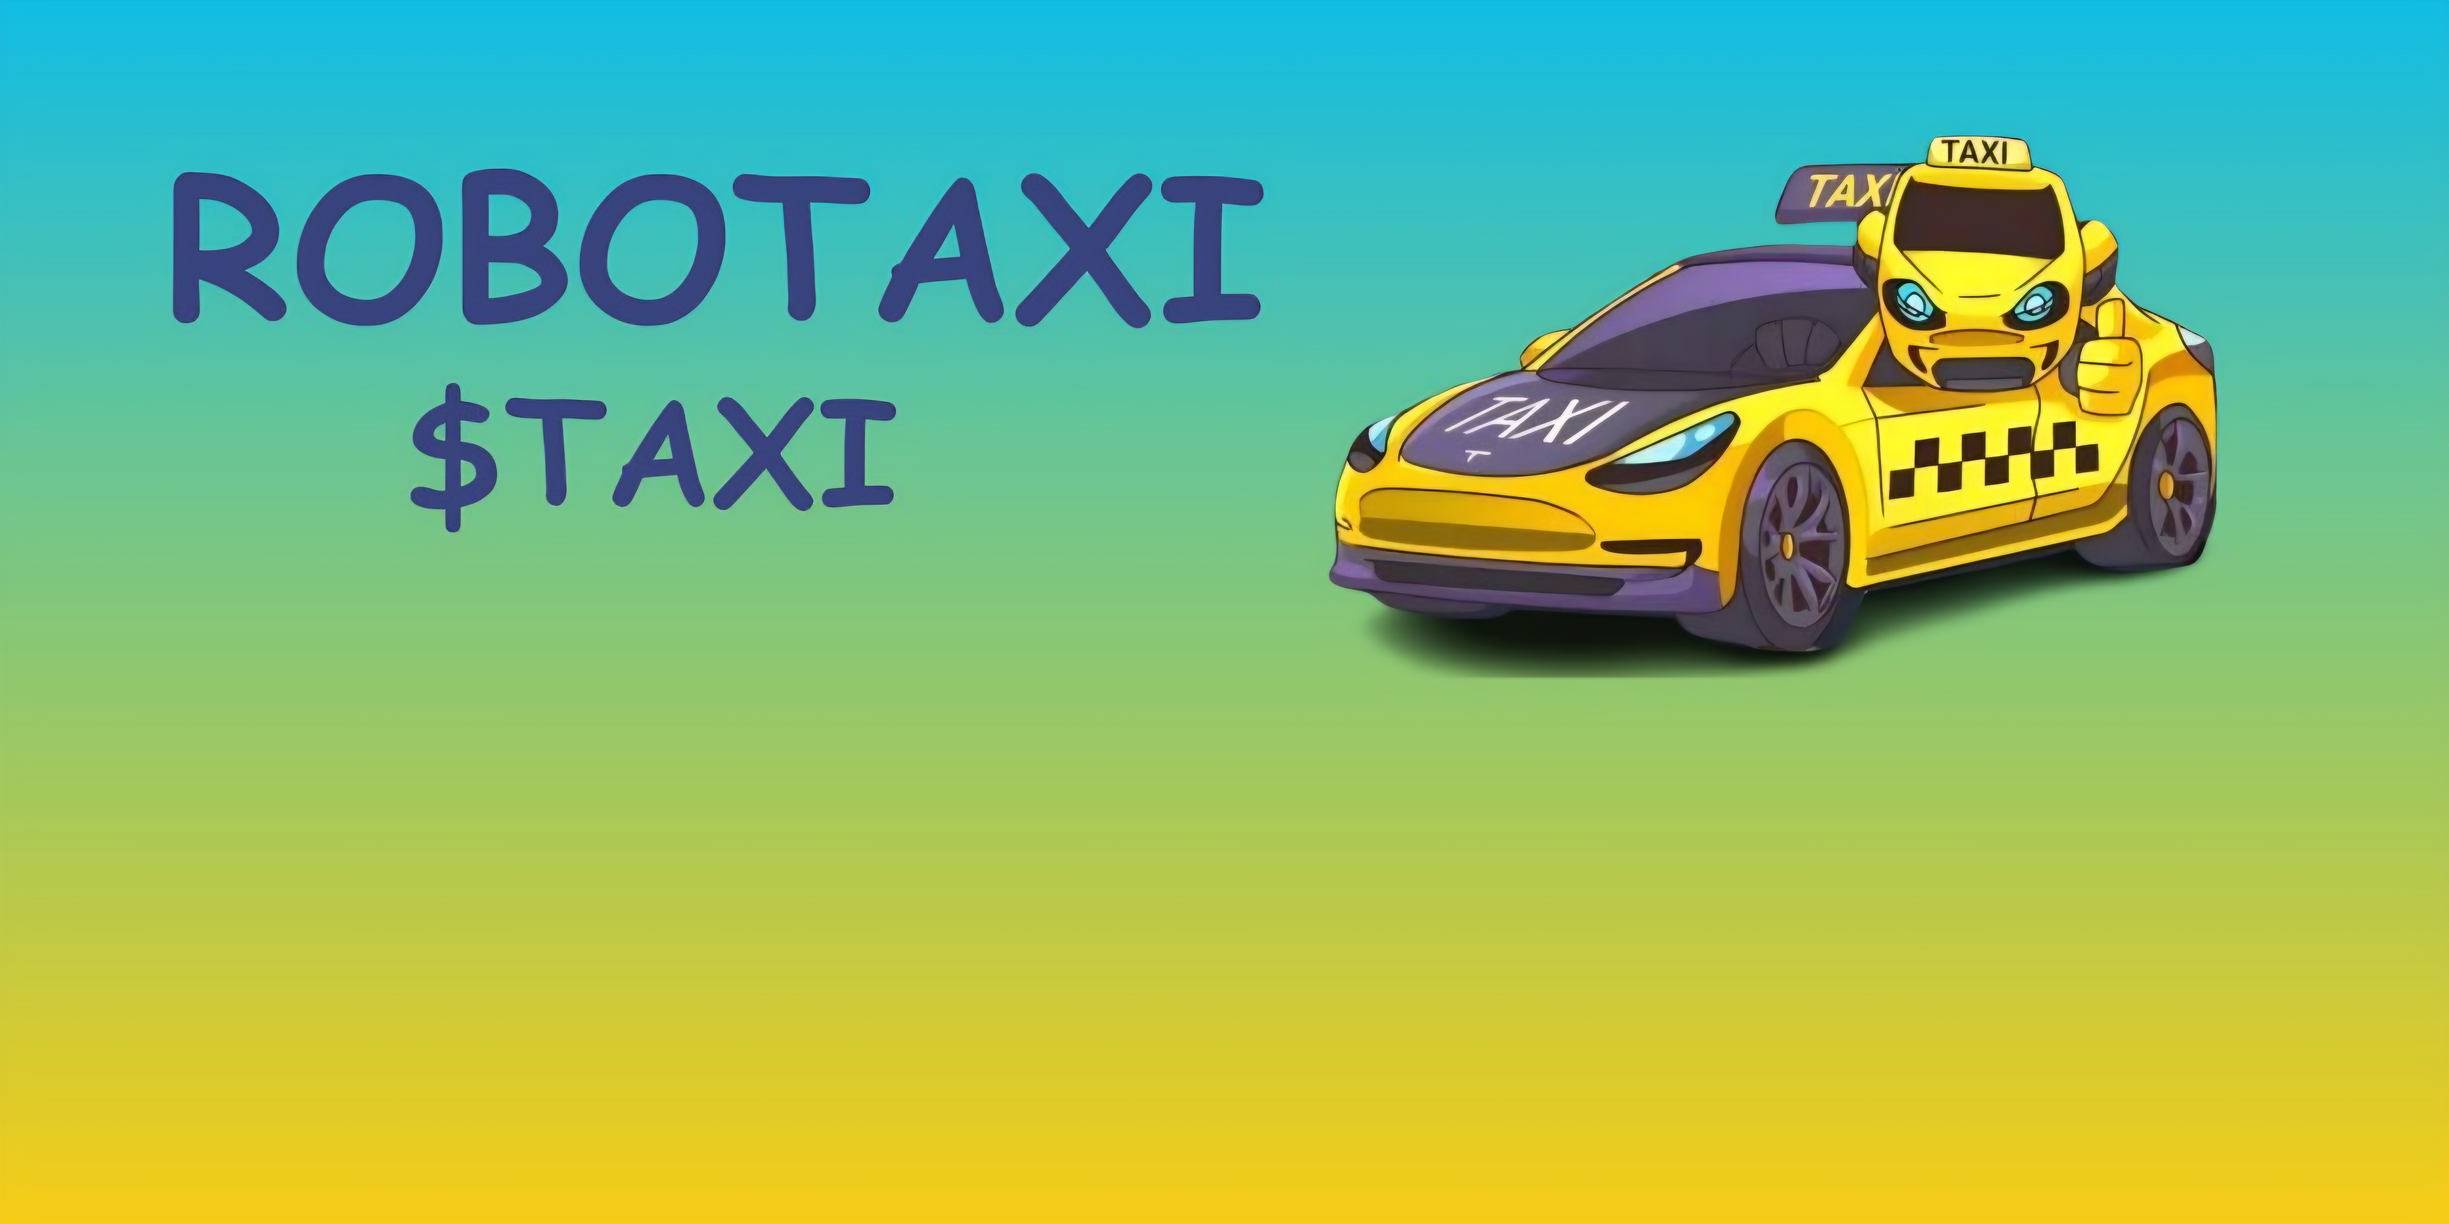
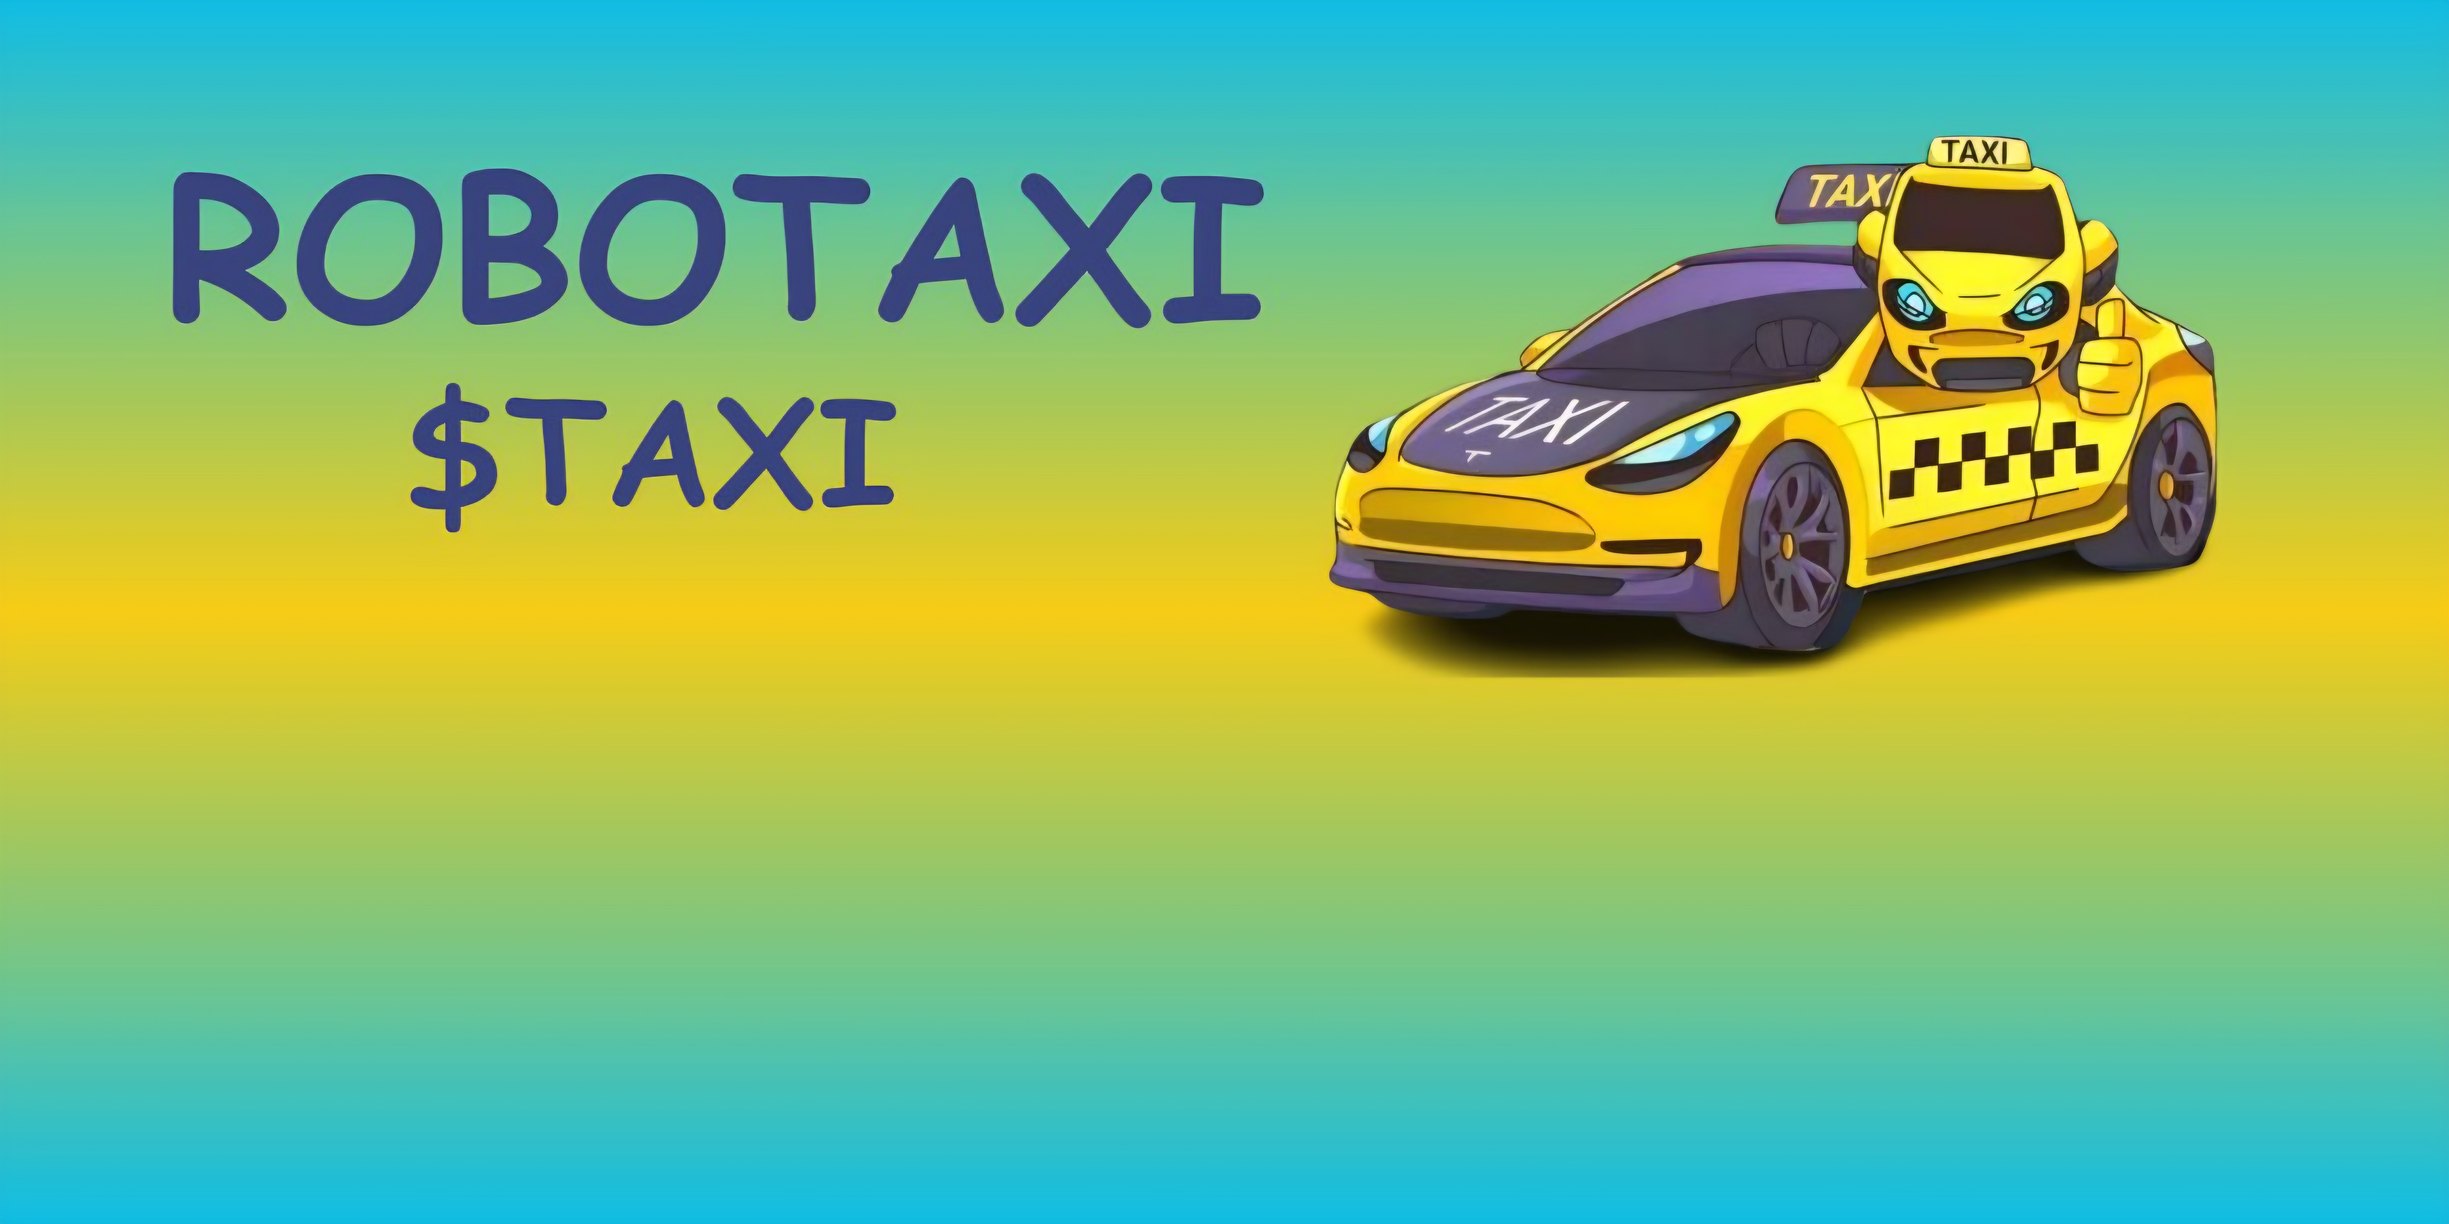
Changed the colours

diff --git a/taxicoin/src/components/Hero.tsx b/taxicoin/src/components/Hero.tsx
@@ -5,7 +5,7 @@ export default function HeroSection() {
   return (
     <>
       <Header />
-      <main className="pt-18 bg-yellow-500">
+      <main className="pt-18 bg-[#0cc0df]">
         <div className="relative w-full">
           {/* Background image */}
           <img src="/home.jpg" className="w-full h-auto object-cover" />
@@ -18,14 +18,14 @@ export default function HeroSection() {
               rel="noopener noreferrer"
             >
               <button
-                className="flex items-center gap-2 bg-yellow-400 text-[#39437E] font-bold 
-          py-2 px-4 sm:py-2.5 sm:px-5 md:py-3 md:px-6 
+                className="flex items-center gap-2 bg-[#39437E] text-[#0cc0df] font-bold 
+          py-3 px-3 sm:py-4 sm:px-4 md:py-5 md:px-5 
           rounded-full border-b-4 border-[#39437E] 
-          shadow-[0_4px_0_0_#39437E] transition-all duration-100 
+          shadow-[0_4px_0_0_#0cc0df] transition-all duration-100 
           hover:translate-y-1 hover:shadow-none 
           active:translate-y-1 active:shadow-none active:border-b-0"
               >
-                <Twitter className="w-5 h-5 sm:w-6 sm:h-6 md:w-7 md:h-7" />
+                <Twitter className="w-7 h-7 sm:w-8 sm:h-8 md:w-9 md:h-9" />
               </button>
             </a>
 
@@ -35,83 +35,25 @@ export default function HeroSection() {
               rel="noopener noreferrer"
             >
               <button
-                className="flex items-center gap-2 bg-yellow-400 text-[#39437E] font-bold 
-          py-2 px-4 sm:py-2.5 sm:px-5 md:py-3 md:px-6 
-          rounded-full border-b-4 border-[#39437E] 
-          shadow-[0_4px_0_0_#39437E] transition-all duration-100 
+                className="flex items-center gap-2 bg-[#39437E] text-[#0cc0df] font-bold 
+          py-3 px-3 sm:py-4 sm:px-4 md:py-5 md:px-5 
+          rounded-full border-b-4 border-[#39437E]
+          shadow-[0_4px_0_0_#0cc0df] transition-all duration-100 
           hover:translate-y-1 hover:shadow-none 
           active:translate-y-1 active:shadow-none active:border-b-0"
               >
-                <Send className="w-5 h-5 sm:w-6 sm:h-6 md:w-7 md:h-7" />
+                <Send className="w-7 h-7 sm:w-8 sm:h-8 md:w-9 md:h-9" />
               </button>
             </a>
           </div>
         </div>
+
+        <img src="/floatingimg.png" />
+        <p>
+          Robotaxi is a memecoin created to honour ElonMusk's ambitious vision
+          of fully autonomous future ( Tesla Robotaxi)
+        </p>
       </main>
     </>
-
-    // The following Hero Content section is commented out to avoid syntax errors.
-    /*
-    <section className="relative flex flex-col min-h-[100vh] py-20 items-center justify-center overflow-visible bg-yellow-500">
-      <Header />
-      <div className="flex flex-col items-center w-full border-b border-[#39437E] mt-30 lg:mt-50 justify-center py-8 text-center">
-        <div className="flex w-full justify-center gap-[18vw] md:gap-[40%] px-8 md:my-5 mt-30 mb-8">
-          <a
-            href="https://x.com/EthRoboTaxi"
-            target="_blank"
-            rel="noopener noreferrer"
-          >
-            <button className="flex items-center gap-2 bg-yellow-400 text-[#39437E] font-bold py-3 px-6 rounded-lg border-b-4 border-[#39437E] shadow-[0_4px_0_0_#39437E] transition-all duration-100 hover:translate-y-1 hover:shadow-none active:translate-y-1 active:shadow-none active:border-b-0">
-              <Twitter className="w-5 h-5" />
-              Twitter
-            </button>
-          </a>
-          <a
-            href="https://t.me/RoboTaxiPortal"
-            target="_blank"
-            rel="noopener noreferrer"
-          >
-            <button className="flex items-center gap-2 bg-yellow-400 text-[#39437E] font-bold py-3 px-6 rounded-lg border-b-4 border-[#39437E] shadow-[0_4px_0_0_#39437E] transition-all duration-100 hover:translate-y-1 hover:shadow-none active:translate-y-1 active:shadow-none active:border-b-0">
-              <Send className="w-5 h-5" />
-              Telegram
-            </button>
-          </a>
-        </div>
-        <div
-          className={`justify-center flex transition-all duration-700 ${
-            show ? "translate-y-0" : "translate-y-10"
-          }`}
-        >
-          <img
-            src="/intro.jpg"
-            alt="Monkey Character"
-            className="w-[80%] float-animation rounded-full md:w-[50%]"
-          />
-        </div>
-        <div className="flex gap-3 justify-center items-center flex-col">
-          <h1
-            className={`mb-2 text-7xl font-black uppercase tracking-tighter text-black md:text-5xl lg:text-6xl transition-all duration-700 delay-150 ${
-              show ? "translate-y-0" : "translate-y-10"
-            }`}
-          >
-            ROBOTAXI
-          </h1>
-          <p
-            className={` w-[85%] md:w-[70%] text-lg font-bold text-black md:text-2xl transition-all duration-700 delay-300 ${
-              show ? "translate-y-0" : "translate-y-10"
-            }`}
-          >
-            A memecoin honouring ElonMusk's ambitious vision of fully autonomous
-            future ( Tesla cybercab )
-          </p>
-          <a href="https://app.uniswap.org/swap?outputCurrency=0x2597342ff387B63846eb456419590781C4bfCdAF">
-            <button className="bg-yellow-400 text-[#39437E] font-bold py-3 px-6 rounded-lg border-b-4 border-[#39437E] shadow-[0_4px_0_0_#39437E] transition-all duration-100 hover:translate-y-1 hover:shadow-none active:translate-y-1 active:shadow-none active:border-b-0">
-              Buy Now
-            </button>
-          </a>
-        </div>
-      </div>
-    </section>
-    */
   );
 }

diff --git a/taxicoin/src/components/Header.tsx b/taxicoin/src/components/Header.tsx
@@ -42,7 +42,7 @@ const Header = () => {
   }, []);
   return (
     <>
-      <nav className="fixed left-0 right-0 top-0 z-50 flex items-center justify-between bg-white p-4 shadow-md">
+      <nav className="fixed left-0 right-0 top-0 z-50 flex items-center justify-between bg-[#0cc0df] p-4 shadow-md">
         {/* Logo */}
         <div className="flex items-center gap-2">
           <img src="/logo2.jpg" alt="Token Logo" className="h-10 w-10" />
@@ -53,7 +53,7 @@ const Header = () => {
         <div className="hidden md:flex gap-4">
           <a
             href="#"
-            className="rounded-lg border-2 border-black bg-yellow-300 px-4 py-2 font-bold text-black transition-transform hover:scale-105 hover:bg-yellow-200"
+            className="rounded-lg border-2 border-gray-200 bg-[#39437E] px-5 py-2 font-bold text-white transition-transform hover:scale-105 hover:bg-[#737AA8]"
           >
             BUY
           </a>
@@ -96,9 +96,9 @@ const Header = () => {
           }`}
         >
           {menuOpen ? (
-            <X className="h-6 w-6 text-black" />
+            <X className="h-6 w-6 text-white" />
           ) : (
-            <Menu className="h-6 w-6 text-black" />
+            <Menu className="h-6 w-6 text-white" />
           )}
         </button>
       </nav>
@@ -114,7 +114,7 @@ const Header = () => {
           <a
             href="#about"
             onClick={() => setMenuOpen(false)}
-            className="w-full rounded-lg border-2 border-black bg-yellow-300 px-4 py-2 text-center font-bold text-black hover:bg-yellow-200"
+            className="w-full rounded-lg border-2 border-black bg-[#0cc0df] px-4 py-2 text-center font-bold text-white hover:bg-[#737AA8]"
           >
             ABOUT
           </a>
@@ -122,7 +122,7 @@ const Header = () => {
           <a
             href="#tokenomics"
             onClick={() => setMenuOpen(false)}
-            className="w-full rounded-lg border-2 border-black bg-gray-300 px-4 py-2 text-center font-bold text-black hover:bg-gray-200"
+            className="w-full rounded-lg border-2 border-black bg-[#39437E] px-4 py-2 text-center font-bold text-white hover:bg-[#737AA8]"
           >
             TOKENOMICS
           </a>
@@ -130,7 +130,7 @@ const Header = () => {
           <a
             href="#howtobuy"
             onClick={() => setMenuOpen(false)}
-            className="w-full rounded-lg border-2 border-black bg-yellow-300 px-4 py-2 text-center font-bold text-black hover:bg-yellow-200"
+            className="w-full rounded-lg border-2 border-black bg-[#0cc0df] px-4 py-2 text-center font-bold text-white hover:bg-[#737AA8]"
           >
             HOW TO BUY
           </a>
@@ -138,12 +138,12 @@ const Header = () => {
           <a
             href="#roadmap"
             onClick={() => setMenuOpen(false)}
-            className="w-full rounded-lg border-2 border-black bg-gray-300 px-4 py-2 text-center font-bold text-black hover:bg-gray-200"
+            className="w-full rounded-lg border-2 border-black bg-[#39437E] px-4 py-2 text-center font-bold text-white hover:bg-[#737AA8]"
           >
             ROADMAP
           </a>
 
-          <div className="w-full justify-center border-black border-2 rounded-lg py-2 flex gap-8">
+          <div className="w-full justify-center bg-[#0cc0df] border-black border-2 rounded-lg py-2 flex gap-8">
             <div className="relative group">
               <a href="https://coinmarketcap.com/currencies/robotaxi/">
                 <img src="/coinmarketcap.png" className="w-10 h-10" />

diff --git a/taxicoin/src/components/About.tsx b/taxicoin/src/components/About.tsx
@@ -2,7 +2,7 @@ const About = () => {
   return (
     <div
       id="about"
-      className="bg-yellow-500 pt-54 border-b border-[#39437E] pb-12 gap-5 items-center justify-center flex flex-col md:flex-row px-5 md:px-8"
+      className="bg-[#0cc0df] pt-54 border-b border-[#39437E] pb-12 gap-5 items-center justify-center flex flex-col md:flex-row px-5 md:px-8"
     >
       <div className="md:w-1/3">
         <img
@@ -12,10 +12,10 @@ const About = () => {
       </div>
 
       <div className="flex justify-center items-center md:w-2/3 flex-col">
-        <p className="text-4xl font-extrabold text-[#39437E] mb-5">
+        <p className="text-4xl font-extrabold text-[#0cc0df] mb-5">
           INTRODUCING ROBOTAXI $TAXI
         </p>
-        <p className="text-2xl font-extrabold text-black/90">
+        <p className="text-2xl font-extrabold text-black">
           Robotaxi (TAXI) is an Ethereum-based blockchain project created to
           honor Elon Musk's ambitious vision of a fully autonomous future.
           Musk's new groundbreaking plan centers around the development of
@@ -23,10 +23,10 @@ const About = () => {
           the traditional taxi industry.
         </p>
 
-        <p className="text-3xl font-extrabold text-[#39437E] mt-9 mb-5">
+        <p className="text-3xl font-extrabold text-[#0cc0df] mt-9 mb-5">
           The Robotaxi: A Revolution in the Making
         </p>
-        <p className="font-extrabold text-2xl text-black/90">
+        <p className="font-extrabold text-2xl text-black">
           The Robotaxi could redefine urban transportation as we know it.
           Without the need for human drivers, the robotaxi will be a more
           affordable, efficient, and sustainable alternative to modern

diff --git a/taxicoin/src/components/Roadmap.tsx b/taxicoin/src/components/Roadmap.tsx
@@ -2,11 +2,32 @@ const Roadmap = () => {
   return (
     <div
       id="roadmap"
-      className="bg-yellow-500 text-white flex flex-col justify-center pb-12 pt-10 border-b border-[#39437E]"
+      className="bg-[#0cc0df] pt-54 border-b border-[#39437E] pb-12 gap-5 items-center justify-center flex flex-col md:flex-row px-5 md:px-8"
     >
-      <p className="text-4xl text-center font-extrabold text-[#39437E] mb-8">
-        Roadmap
-      </p>
+      <div className="md:w-1/2">
+        <img src="/roadmap.jpg" className="" />
+      </div>
+
+      <div className="md:w-1/2 border-2 border-[#39437E] w-fit p-6">
+        <h2 className="text-2xl font-extrabold text-[#0a3d4d] mb-4 border-b-2 border-[#39437E] pb-2">
+          🚀 Roadmap
+        </h2>
+        <div className="space-y-3 text-[#0a3d4d]">
+          <p className="text-lg font-semibold">
+            ✅ Phase 1: <span className="font-normal">Meme Phase</span>
+          </p>
+          <p className="text-lg font-semibold">
+            🔥 Phase 2: <span className="font-normal">Vibe and HODL Phase</span>
+          </p>
+          <p className="text-lg font-semibold">
+            📢 Phase 3:{" "}
+            <span className="font-normal">Huge Marketing Phase</span>
+          </p>
+          <p className="text-lg font-semibold">
+            👑 Phase 4: <span className="font-normal">Meme Takeover</span>
+          </p>
+        </div>
+      </div>
     </div>
   );
 };

diff --git a/taxicoin/src/components/Tokenomics.tsx b/taxicoin/src/components/Tokenomics.tsx
@@ -13,12 +13,12 @@ const Tokenomics = () => {
   return (
     <section
       id="tokenomics"
-      className="pb-12 pt-10 bg-yellow-500 border-b border-[#39437E] text-center"
+      className="pb-12 pt-10 bg-[#0cc0df] border-b border-[#39437E] text-center"
     >
       <div className="max-w-6xl mx-auto px-4">
         {/* Title */}
         <motion.h2
-          className="text-4xl font-extrabold text-[#39437E] mb-12"
+          className="text-4xl font-extrabold text-black mb-12"
           initial="hidden"
           whileInView="visible"
           viewport={{ once: false, amount: 0.3 }}
@@ -38,13 +38,13 @@ const Tokenomics = () => {
             <motion.div
               key={i}
               custom={i}
-              className="bg-[#39437E]/80 rounded-lg p-6 shadow-md"
+              className="bg-[#39437E] rounded-lg p-6 shadow-md"
               initial="hidden"
               whileInView="visible"
               viewport={{ once: false, amount: 0.3 }}
               variants={fadeZoom}
             >
-              <h3 className="text-3xl font-bold text-yellow-100">
+              <h3 className="text-3xl font-bold text-[#0cc0df]">
                 {item.title}
               </h3>
               <p className="mt-2 text-lg font-semibold text-gray-200 uppercase">

diff --git a/taxicoin/src/components/HowToBuy.tsx b/taxicoin/src/components/HowToBuy.tsx
@@ -46,7 +46,7 @@ const InstructionCard: React.FC<InstructionCardProps> = ({ step }) => {
       initial="hidden"
       animate={isInView ? "visible" : "hidden"}
       className={clsx(
-        "w-full max-w-[97%] md:max-w-[85%] px-4 py-3 border-3 bg-[#39437E] gap-5 rounded-md border-gray-200 flex items-center box-border"
+        "w-full max-w-[97%] md:max-w-[85%] px-4 py-3 border-3 bg-[#39437E] gap-5 rounded-md border-gray-200 flex items-center box-border text-white"
       )}
     >
       <img
@@ -91,8 +91,8 @@ const HowToBuy: React.FC = () => {
   ];
 
   return (
-    <div className="bg-yellow-500 text-white flex flex-col justify-center pb-12 pt-10 border-b border-[#39437E]">
-      <h1 className="text-4xl text-center font-extrabold text-[#39437E] mb-8">
+    <div className="bg-[#0cc0df] text-white flex flex-col justify-center pb-12 pt-10 border-b border-[#39437E]">
+      <h1 className="text-4xl text-center font-extrabold text-black mb-8">
         How To Buy
       </h1>
 

diff --git a/taxicoin/src/components/Home.tsx b/taxicoin/src/components/Home.tsx
@@ -3,16 +3,18 @@ import About from "./About";
 import HowToBuy from "./HowToBuy";
 import Tokenomics from "./Tokenomics";
 import Roadmap from "./Roadmap";
+import Footer from "./Footer";
 
 const Home = () => {
   return (
     <>
-      <div className="h-screen bg-green-500 flex flex-col">
+      <div className="h-screen flex flex-col">
         <HeroSection />
         <About />
         <HowToBuy />
         <Tokenomics />
         <Roadmap />
+        <Footer />
       </div>
     </>
   );

diff --git a/taxicoin/src/components/Footer.tsx b/taxicoin/src/components/Footer.tsx
@@ -1,0 +1,14 @@
+const Footer = () => {
+  return (
+    <div className="text-center text-sm py-5 bg-[#0cc0df] text-black">
+      <p className="pb-1">
+        $Taxi coin has no association with Tesla robotaxi company. This token
+        was created to honour Elonmusk's ambitious vision of fully autonomous
+        self-driving Robotaxi
+      </p>
+      <p>Copyright@2025 by Robotaxi. All rights reserved!</p>
+    </div>
+  );
+};
+
+export default Footer;
